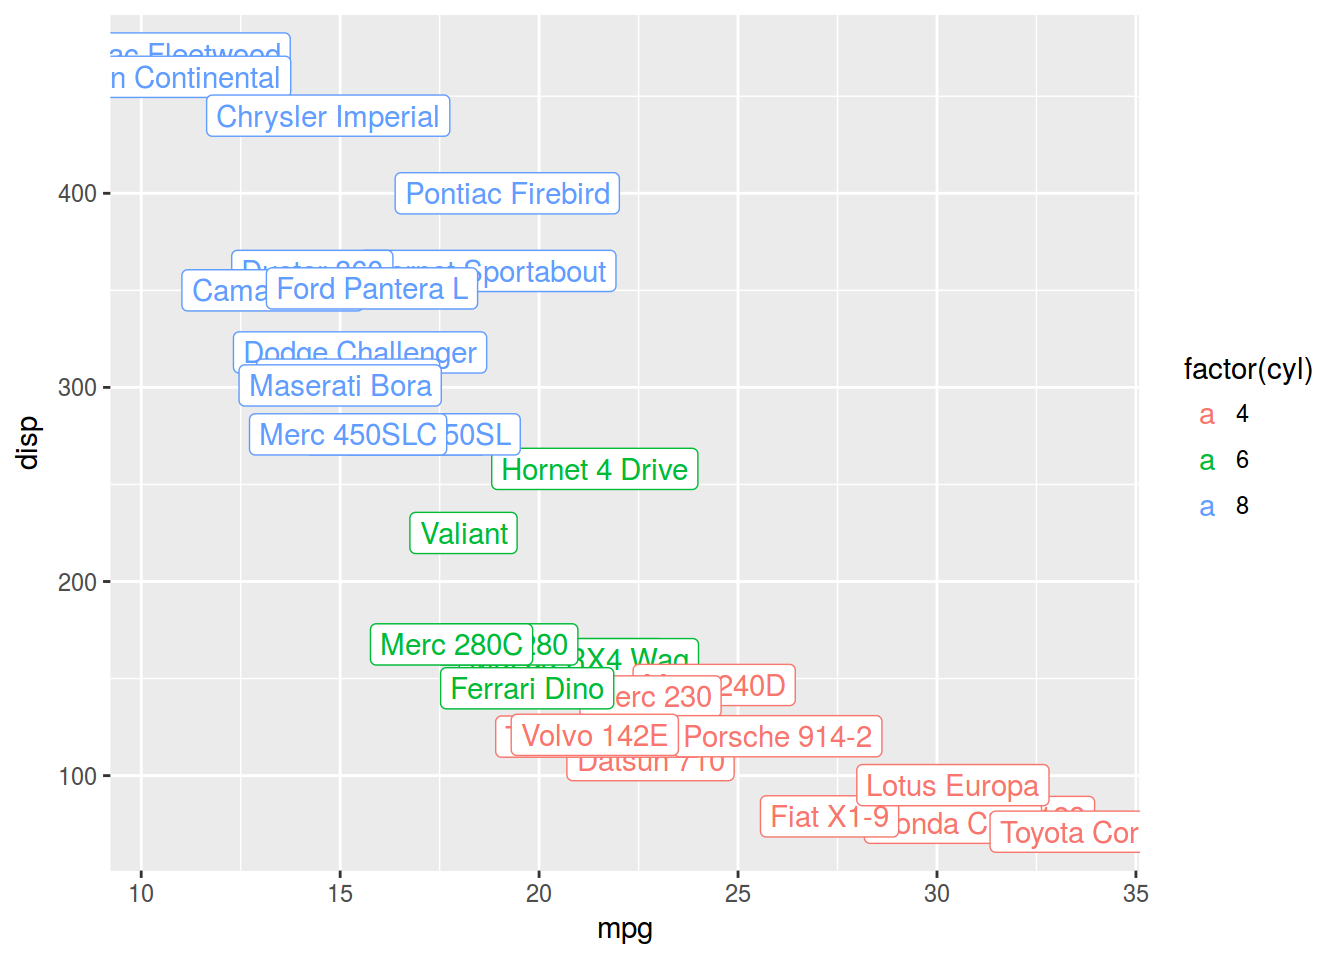
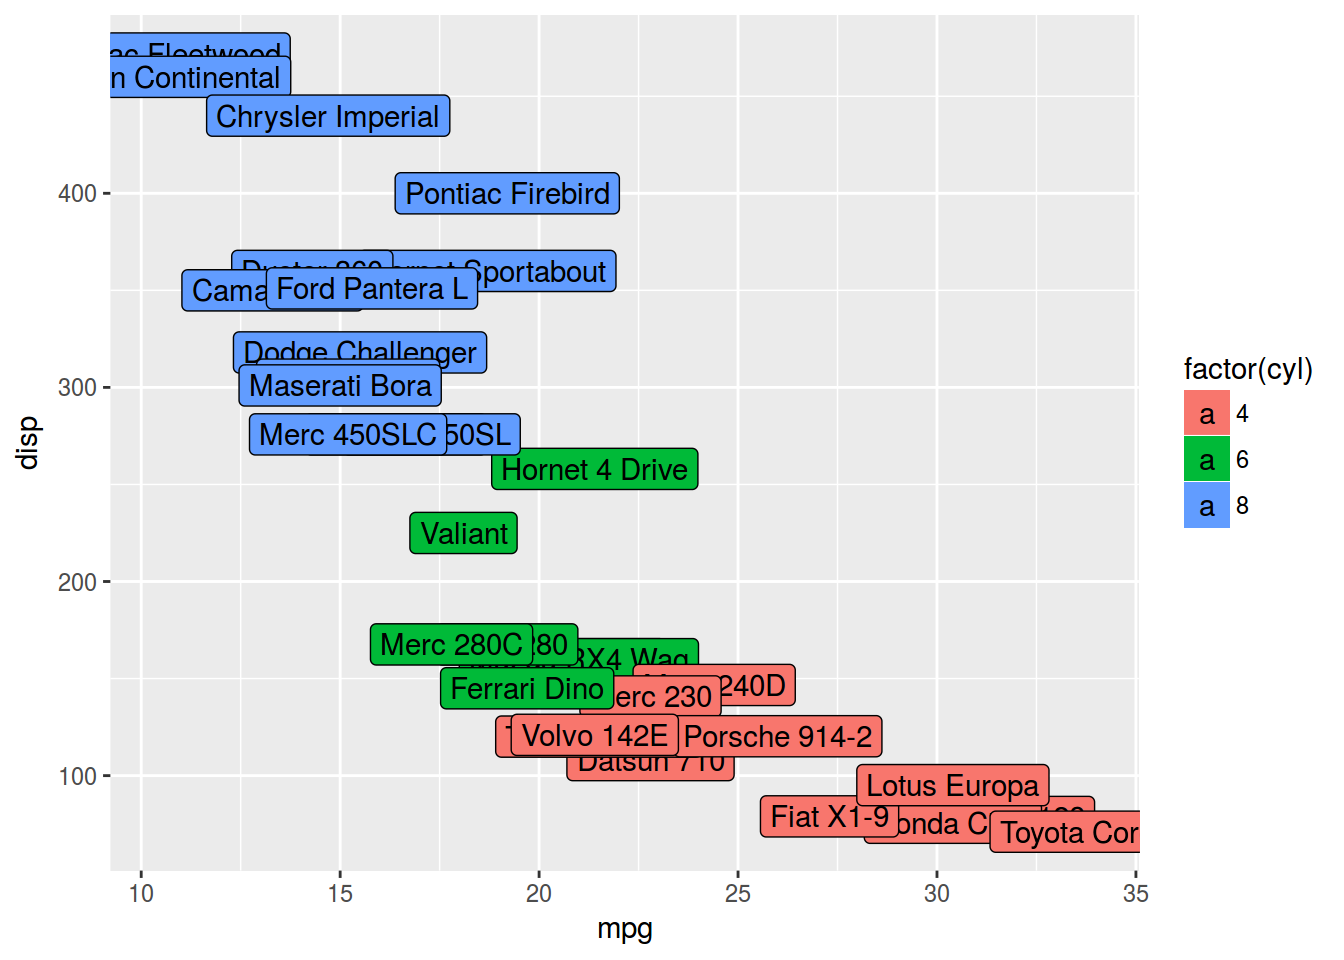
Вт. янв. 24 20:52:12 MSK 2017

Changed region(s): [[0.0625, 0.0312, 0.5312, 0.5938], [0.25, 0.625, 0.875, 0.9062], [0.875, 0.4062, 0.9375, 0.5625]]

diff --git a/docs/Lab_3.html b/docs/Lab_3.html
@@ -237,70 +237,74 @@ $(document).ready(function () {
 dim(g) &lt;- c(5, 10)
 g &lt;- as.data.frame(g)
 g</code></pre>
-<pre><code>##            V1         V2         V3          V4         V5          V6
-## 1 -0.02159671  0.4324866 -0.4699891  1.12709079  0.1988106  0.08908333
-## 2  1.39862017 -0.8369815 -0.1761826 -0.03964931 -0.5711817 -0.02864296
-## 3  1.87600874 -0.5936589  0.4323506 -2.04944565  1.0951235  0.44805558
-## 4  2.38925404 -0.1704397  1.5601822 -1.00850570 -1.8312489 -0.59382569
-## 5  0.67574503  0.4838243  0.6031464  0.99716856 -0.4371946  0.92065655
-##            V7         V8         V9        V10
-## 1 -0.36871358 -0.5644073 -0.9276124 -0.9654515
-## 2 -0.05503118 -0.1576926  0.5722046  2.1040745
-## 3  0.96416817  0.8920215  0.0216913 -1.3065649
-## 4  0.53163950 -0.4286423 -0.7557927 -0.4058244
-## 5  1.28752759 -2.1797582  0.2321556 -0.9260082</code></pre>
+<pre><code>##           V1         V2          V3         V4         V5          V6
+## 1  0.3721435  0.2208798 -0.74532717  0.1878245  0.6271704 -1.73613089
+## 2 -0.7660381  0.5397476 -0.41298220 -0.4616596 -0.4961479  0.03400587
+## 3 -1.4400469 -0.7837884  1.03871562  1.2603076 -0.2744526  0.41227582
+## 4 -1.1538338  1.4916049  0.03692969 -0.5494018 -1.4633575 -1.59751028
+## 5  0.6159074 -1.3094096  0.26436053  0.5000856 -2.0607457  1.17556829
+##           V7          V8          V9        V10
+## 1  0.1731911  0.20023959 -0.14869292  0.5820715
+## 2 -0.3052894 -0.01001965 -1.52897752  0.3368343
+## 3  0.4479613  1.46502777  0.02840835  0.4681021
+## 4  0.3406142 -1.93281898 -1.63091367 -0.6897531
+## 5 -1.9706323 -0.17375325 -1.23721596  1.0355660</code></pre>
 <pre class="r"><code>f &lt;- rnorm(30)
 dim(f) &lt;- c(3, 10)
 f &lt;- as.data.frame(f)
 f</code></pre>
-<pre><code>##           V1        V2         V3        V4         V5         V6
-## 1  1.6917424  1.568758 -0.2713342 0.1895985  0.0671941 -1.6988270
-## 2 -0.6768377  0.538860 -1.3358318 1.7729506 -1.5325278 -0.7336725
-## 3  0.1493951 -1.246885 -2.1525488 0.0968847  2.0960778  0.9864502
-##           V7         V8        V9         V10
-## 1 -0.6177737 -0.3846597  1.488628  0.03638255
-## 2 -1.0508189 -0.3384347  1.447152 -0.39815519
-## 3 -0.6537296  0.2251350 -1.035670 -1.84385592</code></pre>
+<pre><code>##            V1         V2         V3         V4         V5         V6
+## 1 -0.01168503 -0.5189097  1.1545912  0.2421409  1.3281845  0.6271586
+## 2  0.56242182 -0.5355363  0.3473049 -1.0011894 -1.3335273 -0.6189282
+## 3 -0.75585467 -0.2235552 -1.5793814 -1.3257879 -0.2287083 -0.6777061
+##           V7         V8         V9        V10
+## 1  0.6102475 -1.5434235 -0.7801931 -0.4068951
+## 2  0.3528598 -0.7505886  0.1008270  1.0427288
+## 3 -1.7729158 -0.9833164  0.8201139 -0.3054643</code></pre>
 <pre class="r"><code>rbind(g, f)</code></pre>
-<pre><code>##            V1         V2         V3          V4         V5          V6
-## 1 -0.02159671  0.4324866 -0.4699891  1.12709079  0.1988106  0.08908333
-## 2  1.39862017 -0.8369815 -0.1761826 -0.03964931 -0.5711817 -0.02864296
-## 3  1.87600874 -0.5936589  0.4323506 -2.04944565  1.0951235  0.44805558
-## 4  2.38925404 -0.1704397  1.5601822 -1.00850570 -1.8312489 -0.59382569
-## 5  0.67574503  0.4838243  0.6031464  0.99716856 -0.4371946  0.92065655
-## 6  1.69174238  1.5687577 -0.2713342  0.18959851  0.0671941 -1.69882702
-## 7 -0.67683770  0.5388600 -1.3358318  1.77295063 -1.5325278 -0.73367246
-## 8  0.14939511 -1.2468852 -2.1525488  0.09688470  2.0960778  0.98645019
-##            V7         V8         V9         V10
-## 1 -0.36871358 -0.5644073 -0.9276124 -0.96545153
-## 2 -0.05503118 -0.1576926  0.5722046  2.10407454
-## 3  0.96416817  0.8920215  0.0216913 -1.30656495
-## 4  0.53163950 -0.4286423 -0.7557927 -0.40582443
-## 5  1.28752759 -2.1797582  0.2321556 -0.92600821
-## 6 -0.61777371 -0.3846597  1.4886281  0.03638255
-## 7 -1.05081891 -0.3384347  1.4471515 -0.39815519
-## 8 -0.65372962  0.2251350 -1.0356700 -1.84385592</code></pre>
+<pre><code>##            V1         V2          V3         V4         V5          V6
+## 1  0.37214353  0.2208798 -0.74532717  0.1878245  0.6271704 -1.73613089
+## 2 -0.76603812  0.5397476 -0.41298220 -0.4616596 -0.4961479  0.03400587
+## 3 -1.44004687 -0.7837884  1.03871562  1.2603076 -0.2744526  0.41227582
+## 4 -1.15383378  1.4916049  0.03692969 -0.5494018 -1.4633575 -1.59751028
+## 5  0.61590737 -1.3094096  0.26436053  0.5000856 -2.0607457  1.17556829
+## 6 -0.01168503 -0.5189097  1.15459123  0.2421409  1.3281845  0.62715855
+## 7  0.56242182 -0.5355363  0.34730490 -1.0011894 -1.3335273 -0.61892821
+## 8 -0.75585467 -0.2235552 -1.57938137 -1.3257879 -0.2287083 -0.67770605
+##           V7          V8          V9        V10
+## 1  0.1731911  0.20023959 -0.14869292  0.5820715
+## 2 -0.3052894 -0.01001965 -1.52897752  0.3368343
+## 3  0.4479613  1.46502777  0.02840835  0.4681021
+## 4  0.3406142 -1.93281898 -1.63091367 -0.6897531
+## 5 -1.9706323 -0.17375325 -1.23721596  1.0355660
+## 6  0.6102475 -1.54342352 -0.78019306 -0.4068951
+## 7  0.3528598 -0.75058859  0.10082698  1.0427288
+## 8 -1.7729158 -0.98331641  0.82011386 -0.3054643</code></pre>
 <pre class="r"><code>h &lt;- rnorm(21)
 dim(h) &lt;- c(3, 7)
 h &lt;- as.data.frame(h)
 h</code></pre>
-<pre><code>##           V1         V2        V3        V4        V5         V6        V7
-## 1  1.7578330 -0.9688936 2.8876590 -1.215410 -1.633129 -0.4248681 0.9965446
-## 2  0.6724267 -1.3292587 1.0085683  1.024981 -2.876560  1.3304028 1.5521857
-## 3 -1.8665729 -0.6234813 0.5089447  1.379321  1.363026 -0.7749972 1.1260940</code></pre>
+<pre><code>##           V1         V2          V3          V4         V5         V6
+## 1 -1.6531166 -0.1760435 -2.43343486 -0.37803083 -0.2068839 -0.4720368
+## 2  0.4293311  0.4953431  0.04078331  0.32922346 -1.7065664  1.9500473
+## 3  0.6075880 -0.5166026 -1.67535514  0.05308448 -1.8687600  1.5601545
+##           V7
+## 1  0.4963072
+## 2 -0.3654604
+## 3  1.7204109</code></pre>
 <pre class="r"><code>cbind(f, h)</code></pre>
-<pre><code>##           V1        V2         V3        V4         V5         V6
-## 1  1.6917424  1.568758 -0.2713342 0.1895985  0.0671941 -1.6988270
-## 2 -0.6768377  0.538860 -1.3358318 1.7729506 -1.5325278 -0.7336725
-## 3  0.1493951 -1.246885 -2.1525488 0.0968847  2.0960778  0.9864502
-##           V7         V8        V9         V10         V1         V2
-## 1 -0.6177737 -0.3846597  1.488628  0.03638255  1.7578330 -0.9688936
-## 2 -1.0508189 -0.3384347  1.447152 -0.39815519  0.6724267 -1.3292587
-## 3 -0.6537296  0.2251350 -1.035670 -1.84385592 -1.8665729 -0.6234813
-##          V3        V4        V5         V6        V7
-## 1 2.8876590 -1.215410 -1.633129 -0.4248681 0.9965446
-## 2 1.0085683  1.024981 -2.876560  1.3304028 1.5521857
-## 3 0.5089447  1.379321  1.363026 -0.7749972 1.1260940</code></pre>
+<pre><code>##            V1         V2         V3         V4         V5         V6
+## 1 -0.01168503 -0.5189097  1.1545912  0.2421409  1.3281845  0.6271586
+## 2  0.56242182 -0.5355363  0.3473049 -1.0011894 -1.3335273 -0.6189282
+## 3 -0.75585467 -0.2235552 -1.5793814 -1.3257879 -0.2287083 -0.6777061
+##           V7         V8         V9        V10         V1         V2
+## 1  0.6102475 -1.5434235 -0.7801931 -0.4068951 -1.6531166 -0.1760435
+## 2  0.3528598 -0.7505886  0.1008270  1.0427288  0.4293311  0.4953431
+## 3 -1.7729158 -0.9833164  0.8201139 -0.3054643  0.6075880 -0.5166026
+##            V3          V4         V5         V6         V7
+## 1 -2.43343486 -0.37803083 -0.2068839 -0.4720368  0.4963072
+## 2  0.04078331  0.32922346 -1.7065664  1.9500473 -0.3654604
+## 3 -1.67535514  0.05308448 -1.8687600  1.5601545  1.7204109</code></pre>
 <pre class="r"><code># cbind.data.frame()
 # rbind.data.frame()</code></pre>
 </div>
@@ -325,8 +329,16 @@ country_population</code></pre>
 ## 2    Poland         38
 ## 3   Finland          5</code></pre>
 <pre class="r"><code># install.packages(&quot;dplyr&quot;)
-library(dplyr)
-inner_join(languages, country_population)</code></pre>
+library(dplyr)</code></pre>
+<pre><code>## 
+## Attaching package: &#39;dplyr&#39;</code></pre>
+<pre><code>## The following objects are masked from &#39;package:stats&#39;:
+## 
+##     filter, lag</code></pre>
+<pre><code>## The following objects are masked from &#39;package:base&#39;:
+## 
+##     intersect, setdiff, setequal, union</code></pre>
+<pre class="r"><code>inner_join(languages, country_population)</code></pre>
 <pre><code>## Joining, by = &quot;countries&quot;</code></pre>
 <pre><code>## Warning in inner_join_impl(x, y, by$x, by$y, suffix$x, suffix$y): joining
 ## factors with different levels, coercing to character vector</code></pre>
@@ -337,8 +349,7 @@ inner_join(languages, country_population)</code></pre>
 ## 4 Kashubian    Poland pol         38</code></pre>
 <pre class="r"><code>#semi_join(country_population, languages) -&gt; df
 str(df)</code></pre>
-<pre><code>## &#39;data.frame&#39;:    10 obs. of  1 variable:
-##  $ n: int  1 2 3 4 5 6 7 8 9 10</code></pre>
+<pre><code>## function (x, df1, df2, ncp, log = FALSE)</code></pre>
 <pre class="r"><code>left_join(languages, country_population)</code></pre>
 <pre><code>## Joining, by = &quot;countries&quot;</code></pre>
 <pre><code>## Warning in left_join_impl(x, y, by$x, by$y, suffix$x, suffix$y): joining
@@ -403,8 +414,9 @@ substring(b, 2) &lt;- c(&quot;1&quot;, &quot;22&quot;, &quot;333&quot;) ; b</cod
 <div id="----css-" class="section level1">
 <h1>Обкачивание страниц при помощи css-селектора</h1>
 <pre class="r"><code># install.packages(&quot;rvest&quot;)
-library(rvest)
-source &lt;- read_html(&quot;https://ling.hse.ru/news/&quot;)
+library(rvest)</code></pre>
+<pre><code>## Loading required package: xml2</code></pre>
+<pre class="r"><code>source &lt;- read_html(&quot;https://ling.hse.ru/news/&quot;)
 
 # get titles by css selector
 source %&gt;% 

diff --git a/docs/Lab_5.html b/docs/Lab_5.html
@@ -234,14 +234,30 @@ $(document).ready(function () {
 <div id="ggplot-extensions" class="section level2">
 <h2>ggplot extensions</h2>
 <p><a href="http://www.ggplot2-exts.org/gallery/">ggplot extensions gallery</a></p>
-<pre class="r"><code># install.packages(&quot;devtools&quot;)
+<pre class="r"><code>library(tidyverse)
+# install.packages(&quot;devtools&quot;)
 # devtools::install_github(&quot;dgrtwo/gganimate&quot;)
 # install.packages(&#39;ggthemes&#39;, dependencies = TRUE)</code></pre>
 <pre class="r"><code>mtcars %&gt;% 
   mutate(car.name = rownames(mtcars)) %&gt;% 
-  ggplot(aes(mpg, disp, label = car.name, color = factor(cyl)))+
+  ggplot(aes(mpg, disp, label = car.name, fill = factor(cyl)))+
   geom_label()</code></pre>
 <p><img src="Lab_5_files/figure-html/unnamed-chunk-2-1.png" width="672" /></p>
+</div>
+<div id="plotly" class="section level2">
+<h2>Plotly</h2>
+<p><a href="https://plot.ly/r/">подробнее см. здесь</a></p>
+<pre class="r"><code># install.packages(&quot;plotly&quot;)</code></pre>
+</div>
+<div id="flex-dashboards" class="section level2">
+<h2>Flex Dashboards</h2>
+<p><a href="http://rmarkdown.rstudio.com/flexdashboard/">подробнее см. здесь</a></p>
+<pre class="r"><code># install.packages(&quot;flexdashboard&quot;)</code></pre>
+</div>
+<div id="shiny" class="section level2">
+<h2>Shiny</h2>
+<p><a href="http://shiny.rstudio.com/gallery/">подробнее см. здесь</a></p>
+<pre class="r"><code># install.packages(&quot;shiny&quot;)</code></pre>
 </div>
 
 

diff --git a/docs/Lab_4.html b/docs/Lab_4.html
@@ -231,8 +231,16 @@ $(document).ready(function () {
 </div>
 
 
-<pre class="r"><code>library(tidyverse)
-chi.kuk &lt;- read.csv(&quot;http://goo.gl/Zjr9aF&quot;)
+<pre class="r"><code>library(tidyverse)</code></pre>
+<pre><code>## Loading tidyverse: ggplot2
+## Loading tidyverse: tibble
+## Loading tidyverse: tidyr
+## Loading tidyverse: readr
+## Loading tidyverse: purrr</code></pre>
+<pre><code>## Conflicts with tidy packages ----------------------------------------------</code></pre>
+<pre><code>## filter(): dplyr, stats
+## lag():    dplyr, stats</code></pre>
+<pre class="r"><code>chi.kuk &lt;- read.csv(&quot;http://goo.gl/Zjr9aF&quot;)
 ggplot(data = chi.kuk, aes(x = chi.kuk$s.duration.ms, y = chi.kuk$vowel.duration.ms)) +
   geom_smooth() +
   geom_point()</code></pre>
